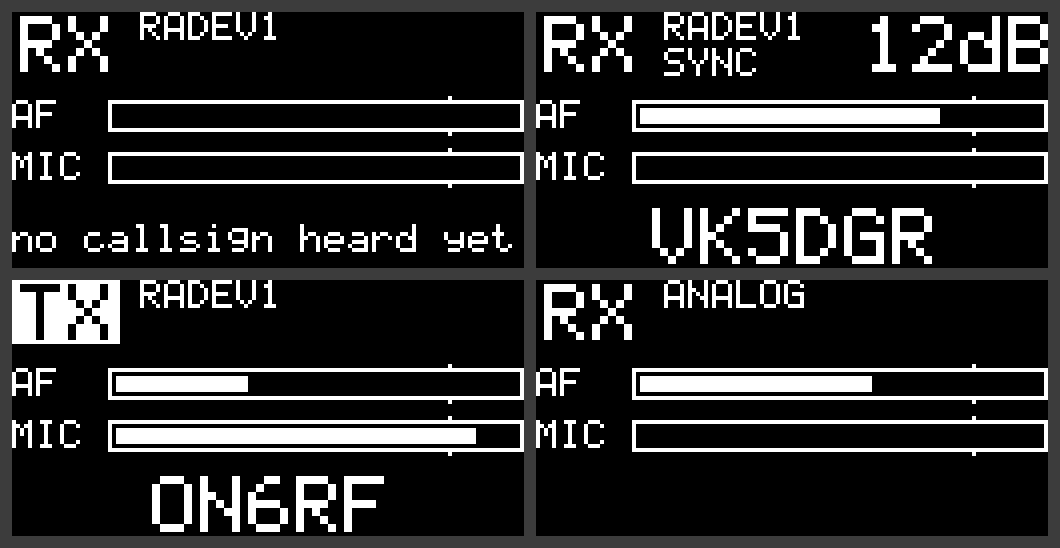
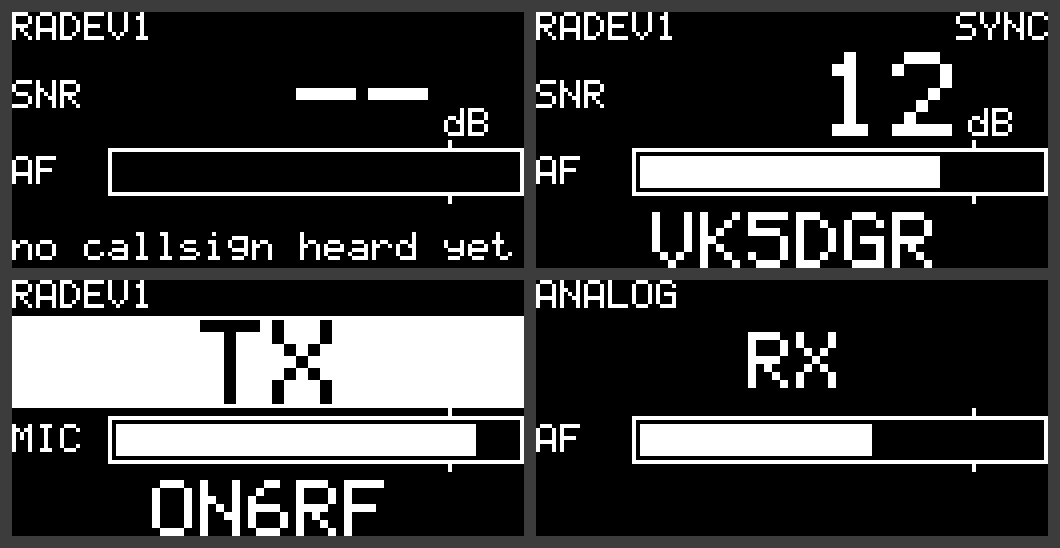
Rework the status screen around SNR and the AF level bar
The SNR is now the largest element and the AF bar is taller. The separate
microphone bar is gone: the single bar shows the microphone only while
transmitting, when the radio input carries nothing.

Claude-Session: https://claude.ai/code/session_015vV48CtRm9kZkyp5fzd2HZ

diff --git a/src/display/StatusScreen.cpp b/src/display/StatusScreen.cpp
@@ -8,23 +8,29 @@ namespace fdve {
 namespace {
 
 constexpr float kBarFloorDbfs = -60.0f;
+constexpr int kBarY = 34;
+constexpr int kBarHeight = 12;
 
-// Level bar from -60 to 0 dBFS, with a notch at -10 dBFS as a "getting hot" mark.
-void levelBar(Framebuffer& fb, int y, const char* label, float dbfs)
+// Level bar from -60 to 0 dBFS, with a mark at -10 dBFS.
+void levelBar(Framebuffer& fb, const char* label, float dbfs)
 {
     const int x = 24;
     const int w = Framebuffer::Width - x;
-    const int h = 8;
-    fb.text(0, y, label);
-    fb.rect(x, y, w, h);
+    fb.text(0, kBarY + 2, label);
+    fb.rect(x, kBarY, w, kBarHeight);
 
     const float fraction = std::clamp((dbfs - kBarFloorDbfs) / -kBarFloorDbfs, 0.0f, 1.0f);
     const int inner = w - 4;
-    fb.fillRect(x + 2, y + 2, static_cast<int>(fraction * inner + 0.5f), h - 4);
+    fb.fillRect(x + 2, kBarY + 2, static_cast<int>(fraction * inner + 0.5f), kBarHeight - 4);
 
-    const int notch = x + 2 + static_cast<int>((-10.0f - kBarFloorDbfs) / -kBarFloorDbfs * inner);
-    fb.setPixel(notch, y - 1);
-    fb.setPixel(notch, y + h);
+    const int mark = x + 2 + static_cast<int>((-10.0f - kBarFloorDbfs) / -kBarFloorDbfs * inner);
+    fb.fillRect(mark, kBarY - 2, 1, 2);
+    fb.fillRect(mark, kBarY + kBarHeight, 1, 2);
+}
+
+void centred(Framebuffer& fb, int y, const std::string& text, int scale, bool on = true)
+{
+    fb.text((Framebuffer::Width - Framebuffer::textWidth(text, scale)) / 2, y, text, scale, on);
 }
 
 } // namespace
@@ -34,39 +40,42 @@ void renderStatusScreen(const ModemStatus& s, Framebuffer& fb)
     fb.clear();
     const bool transmitting = s.state != ModemState::Receive;
 
-    // Top band: RX/TX, large. Inverted while transmitting.
-    if (transmitting) fb.fillRect(0, 0, 27, 16);
-    fb.text(2, 1, transmitting ? "TX" : "RX", 2, !transmitting);
+    // Header line, small: mode on the left, sync or over state on the right.
+    fb.text(0, 0, s.analog ? "ANALOG" : s.modeName);
+    std::string flag;
+    if (s.state == ModemState::TransmitEnding) flag = "END";
+    else if (!transmitting && !s.analog && s.sync) flag = "SYNC";
+    fb.text(Framebuffer::Width - Framebuffer::textWidth(flag), 0, flag);
 
-    // Mode and sync, small, next to it.
-    fb.text(32, 0, s.analog ? "ANALOG" : s.modeName);
-    if (!s.analog)
+    // Main area, large. Receiving: the SNR. Transmitting: an inverted TX band.
+    if (transmitting)
     {
-        if (s.state == ModemState::TransmitEnding) fb.text(32, 9, "END");
-        else if (!transmitting && s.sync) fb.text(32, 9, "SYNC");
+        fb.fillRect(0, 9, Framebuffer::Width, 23);
+        centred(fb, 10, "TX", 3, false);
+    }
+    else if (s.analog)
+    {
+        centred(fb, 13, "RX", 2);
+    }
+    else
+    {
+        fb.text(0, 17, "SNR");
+        const std::string value = s.sync ? std::to_string(s.snrDb) : "--";
+        const int right = 104;
+        fb.text(right - Framebuffer::textWidth(value, 3), 10, value, 3);
+        fb.text(right + 4, 24, "dB");
     }
 
-    // SNR, large, right aligned. Only meaningful with sync.
-    if (!s.analog && !transmitting && s.sync)
-    {
-        const std::string snr = std::to_string(s.snrDb) + "dB";
-        fb.text(Framebuffer::Width - Framebuffer::textWidth(snr, 2), 1, snr, 2);
-    }
-
-    levelBar(fb, 22, "AF", s.radioInDbfs);
-    levelBar(fb, 35, "MIC", s.micDbfs);
+    // One level bar: what comes from the radio while receiving, the
+    // microphone while transmitting (the radio input carries nothing then).
+    if (transmitting) levelBar(fb, "MIC", s.micDbfs);
+    else levelBar(fb, "AF", s.radioInDbfs);
 
     // Bottom: callsign, large, centred.
     std::string callsign = transmitting ? s.ownCallsign : s.rxCallsign;
     if (callsign.size() > 10) callsign.resize(10);
-    if (callsign.empty())
-    {
-        if (!s.analog && !transmitting) fb.text(0, 53, "no callsign heard yet");
-    }
-    else
-    {
-        fb.text((Framebuffer::Width - Framebuffer::textWidth(callsign, 2)) / 2, 49, callsign, 2);
-    }
+    if (!callsign.empty()) centred(fb, 50, callsign, 2);
+    else if (!s.analog && !transmitting) fb.text(0, 55, "no callsign heard yet");
 }
 
 } // namespace fdve

diff --git a/tests/DisplayTest.cpp b/tests/DisplayTest.cpp
@@ -23,10 +23,10 @@ static int litPixels(const Framebuffer& fb, int x, int y, int w, int h)
     return count;
 }
 
-// Number of lit pixels along the middle row of a level bar's inside.
-static int barFill(const Framebuffer& fb, int y)
+// Number of lit pixels along the middle row of the level bar's inside.
+static int barFill(const Framebuffer& fb)
 {
-    return litPixels(fb, 26, y + 3, 100, 1);
+    return litPixels(fb, 26, 40, 100, 1);
 }
 
 int main(int argc, char** argv)
@@ -74,27 +74,34 @@ int main(int argc, char** argv)
     fb.text(0, 0, "I");
     CHECK(litPixels(fb, 0, 0, 6, 8) == 11); // 7 for the stem, 2 + 2 for the serifs
 
-    // Level bars follow the level, and clamp at both ends.
-    CHECK(barFill(fbIdle, 22) == 0);
-    CHECK(barFill(fbRx, 22) == 75);  // -15 dBFS of a -60..0 range, 100 px wide
-    CHECK(barFill(fbTx, 35) == 90);  // -6 dBFS
+    // The bar follows the radio level while receiving, the microphone while
+    // transmitting, and clamps at both ends.
+    CHECK(barFill(fbIdle) == 0);
+    CHECK(barFill(fbRx) == 75);  // AF -15 dBFS of a -60..0 range, 100 px wide
+    CHECK(barFill(fbTx) == 90);  // mic -6 dBFS, not the radio's -40
     ModemStatus hot = idle;
     hot.radioInDbfs = 3;
-    CHECK(barFill(render("hot", hot), 22) == 100);
+    CHECK(barFill(render("hot", hot)) == 100);
 
-    // The TX indicator is an inverted box: mostly lit. RX is plain text.
-    CHECK(litPixels(fbTx, 0, 0, 27, 16) > 27 * 16 / 2);
-    CHECK(litPixels(fbRx, 0, 0, 27, 16) < 27 * 16 / 2);
+    // Transmitting shows an inverted band across the main area: mostly lit.
+    CHECK(litPixels(fbTx, 0, 9, 128, 23) > 128 * 23 / 2);
+    CHECK(litPixels(fbRx, 0, 9, 128, 23) < 128 * 23 / 2);
 
-    // SNR only shows with sync, at the top right.
-    CHECK(litPixels(fbRx, 80, 0, 48, 16) > 0);
-    CHECK(litPixels(fbIdle, 80, 0, 48, 16) == 0);
-    CHECK(litPixels(fbAnalog, 80, 0, 48, 16) == 0);
+    // The SNR is the largest thing on the screen. With sync it shows the
+    // value ("12" lights more pixels than "--"), in analog mode it is absent.
+    const int snrRx = litPixels(fbRx, 40, 10, 64, 21);
+    const int snrIdle = litPixels(fbIdle, 40, 10, 64, 21);
+    CHECK(snrIdle > 0 && snrRx > 2 * snrIdle);
+    CHECK(litPixels(fbAnalog, 0, 17, 18, 7) == 0); // no "SNR" label
+
+    // "SYNC" appears at the top right only with sync.
+    CHECK(litPixels(fbRx, 104, 0, 24, 8) > 0);
+    CHECK(litPixels(fbIdle, 104, 0, 24, 8) == 0);
 
     // Callsign area: heard callsign in RX, own callsign in TX, differ.
-    CHECK(litPixels(fbRx, 0, 49, 128, 14) > 0);
-    CHECK(litPixels(fbTx, 0, 49, 128, 14) > 0);
-    CHECK(litPixels(fbRx, 0, 49, 128, 14) != litPixels(fbTx, 0, 49, 128, 14));
+    CHECK(litPixels(fbRx, 0, 50, 128, 14) > 0);
+    CHECK(litPixels(fbTx, 0, 50, 128, 14) > 0);
+    CHECK(litPixels(fbRx, 0, 50, 128, 14) != litPixels(fbTx, 0, 50, 128, 14));
 
     std::printf(failures == 0 ? "PASS\n" : "FAILED\n");
     return failures == 0 ? 0 : 1;

diff --git a/src/display/StatusScreen.h b/src/display/StatusScreen.h
@@ -10,11 +10,10 @@ namespace fdve {
 // without a display attached.
 //
 //   +--------------------------------+
-//   | RX  RADEV1          12dB       |   state, mode, sync, SNR
-//   |     SYNC                       |
-//   | AF  [=========        ]        |   level from the radio
-//   | MIC [====             ]        |   microphone level
-//   |          ON6RF                 |   RX: last callsign heard, TX: own callsign
+//   | RADEV1                    SYNC |   mode, sync
+//   | SNR            12 dB           |   large; an inverted "TX" band when transmitting
+//   | AF  [=============|     ]      |   level from the radio (microphone when transmitting)
+//   |           VK5DGR               |   RX: last callsign heard, TX: own callsign
 //   +--------------------------------+
 void renderStatusScreen(const ModemStatus& status, Framebuffer& fb);
 

diff --git a/README.md b/README.md
@@ -187,9 +187,11 @@ i2cdetect -y 1
 
 The user running the program must be in the `i2c` group.
 
-The screen shows RX or TX, the mode, sync and SNR, level bars for the radio
-audio and the microphone (-60 to 0 dBFS, with a mark at -10), and a callsign:
-the last one heard while receiving, your own while transmitting.
+The SNR is the largest element, with the AF level bar from the radio below it
+(-60 to 0 dBFS, with a mark at -10). The top line shows the mode and sync, the
+bottom line the last callsign heard. While transmitting, the SNR is replaced by
+an inverted TX band, the bar shows the microphone level, and the bottom line
+shows your own callsign.
 
 ![Status screen in four situations](docs/status-screen.png)
 
